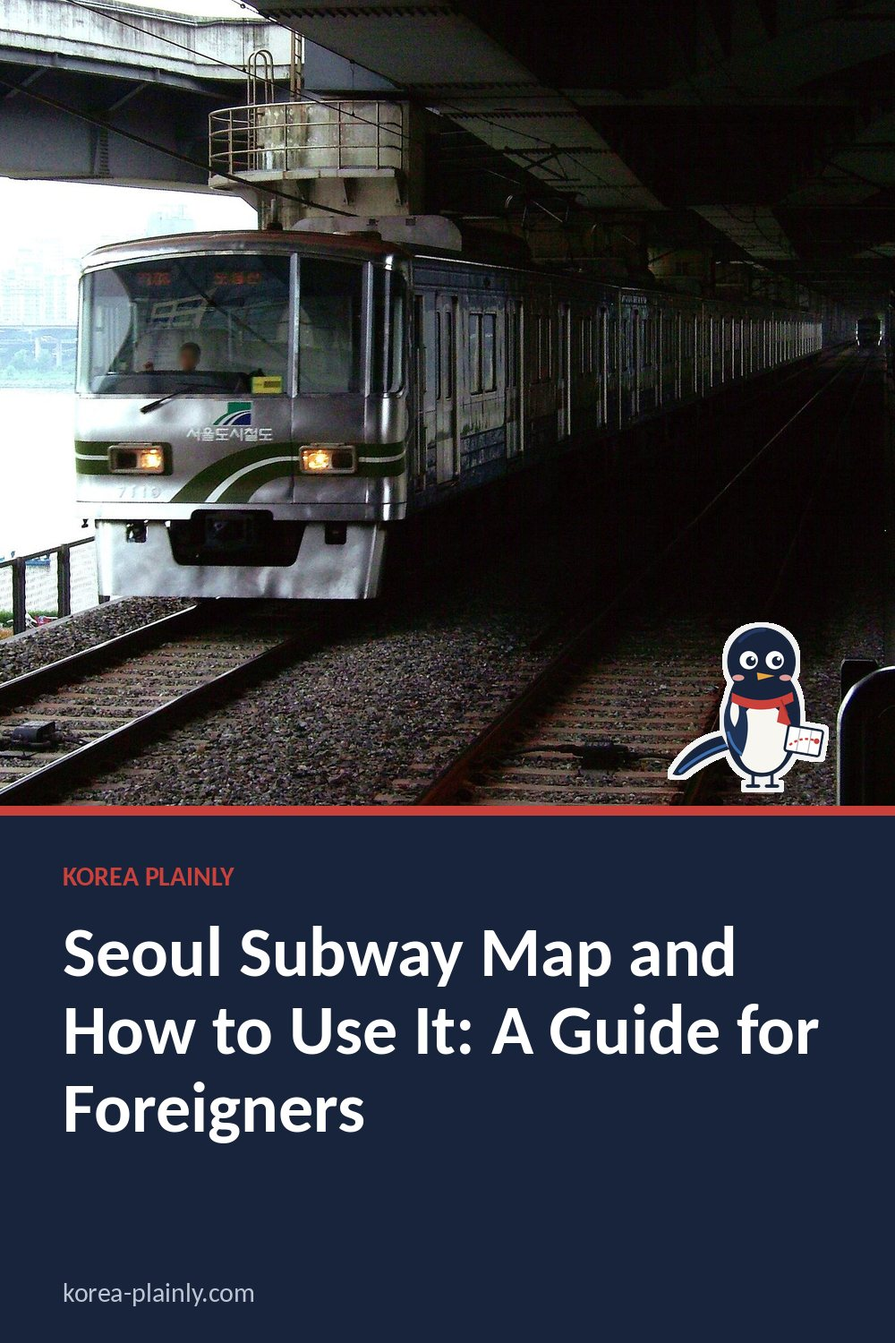
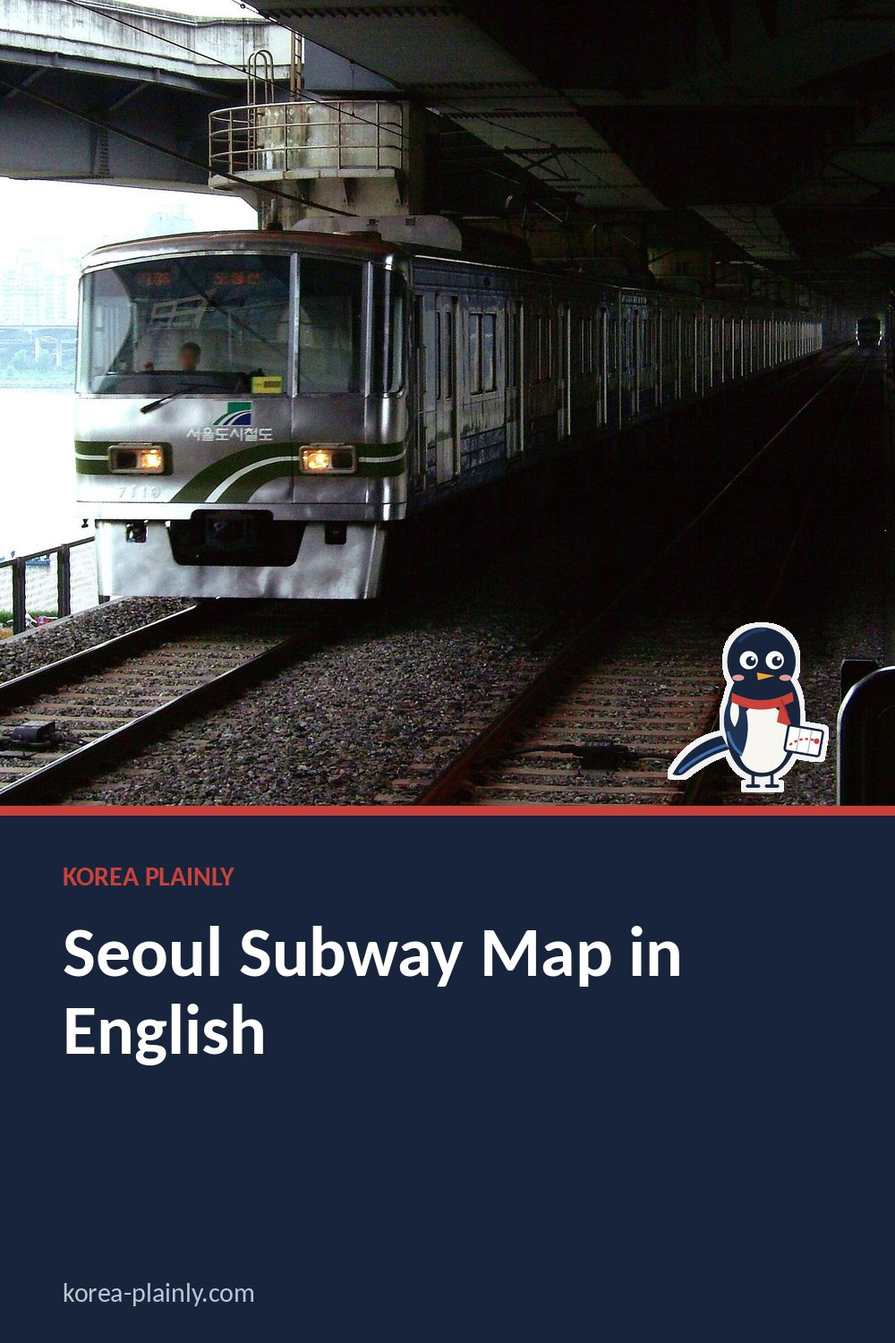
Seoul subway guide: rewrite and retitle for 'seoul subway map english' and 'seoul subway lines'
Lines visitors use with station numbers, Naver Map and Kakao Metro, 2026 fare
(1,550 won), Line 2/1/5 branches and Line 9 express, transfers and exits,
Korean sign words; specific meta description, dek and card text; removes a
self-link labelled 'Seoul bus guide'.

Claude-Session: https://claude.ai/code/session_01MMQnqFtzvhGvSm73SYgpmc

Changed region(s): [[0.062, 0.736, 0.434, 0.8587], [0.558, 0.6747, 0.93, 0.7973], [0.465, 0.736, 0.527, 0.7973]]

diff --git a/seoul-subway-for-foreigners.html b/seoul-subway-for-foreigners.html
@@ -4,18 +4,18 @@
 <meta charset="UTF-8">
 <meta name="viewport" content="width=device-width, initial-scale=1.0">
 <link rel="stylesheet" href="style.css?v=20261015-1">
-<title>Seoul Subway Map and How to Use It: A Guide for Foreigners</title>
-<meta name="description" content="How to read the Seoul subway map, pay with T-money, find the right platform, change lines and choose exits, for first-time visitors.">
+<title>Seoul Subway Map in English: Lines, Apps, Fares and Exits for Foreigners</title>
+<meta name="description" content="The Seoul subway in English: which lines visitors use, Naver Map and Kakao Metro, 1,550-won T-money fares, branch lines, transfers and exit numbers.">
 <link rel="canonical" href="https://korea-plainly.com/seoul-subway-for-foreigners.html">
 <meta property="og:type" content="article">
-<meta property="og:title" content="Seoul Subway Map and How to Use It: A Guide for Foreigners | Korea Plainly">
-<meta property="og:description" content="How to read the Seoul subway map, pay with T-money, find the right platform, change lines and choose exits, for first-time visitors.">
+<meta property="og:title" content="Seoul Subway Map in English: Lines, Apps, Fares and Exits for Foreigners | Korea Plainly">
+<meta property="og:description" content="The Seoul subway in English: which lines visitors use, Naver Map and Kakao Metro, 1,550-won T-money fares, branch lines, transfers and exit numbers.">
 <meta property="og:url" content="https://korea-plainly.com/seoul-subway-for-foreigners.html">
 <meta property="og:image" content="https://korea-plainly.com/photo-seoul-subway-for-foreigners.jpg">
 <meta property="og:site_name" content="Korea Plainly">
 <meta name="twitter:card" content="summary_large_image">
-<meta name="twitter:title" content="Seoul Subway Map and How to Use It: A Guide for Foreigners | Korea Plainly">
-<meta name="twitter:description" content="How to read the Seoul subway map, pay with T-money, find the right platform, change lines and choose exits, for first-time visitors.">
+<meta name="twitter:title" content="Seoul Subway Map in English: Lines, Apps, Fares and Exits for Foreigners | Korea Plainly">
+<meta name="twitter:description" content="The Seoul subway in English: which lines visitors use, Naver Map and Kakao Metro, 1,550-won T-money fares, branch lines, transfers and exit numbers.">
 <meta name="twitter:image" content="https://korea-plainly.com/photo-seoul-subway-for-foreigners.jpg">
 
 <style>
@@ -46,9 +46,9 @@ footer{border-top:1px solid #ddd4c5;padding:30px 24px;color:#737985;text-align:c
 <script async src="https://www.googletagmanager.com/gtag/js?id=G-F508WWT8G9"></script><script>window.dataLayer=window.dataLayer||[];function gtag(){dataLayer.push(arguments);}gtag('js',new Date());gtag('config','G-F508WWT8G9');</script>
 <link rel="stylesheet" href="article.css?v=6">
 <link rel="stylesheet" href="https://fonts.googleapis.com/css2?family=DM+Sans:wght@400;500;600;700&family=Playfair+Display:ital,wght@0,600;1,600&display=swap">
-<script type="application/ld+json" id="kp-faq-ld">{"@context": "https://schema.org", "@type": "FAQPage", "mainEntity": [{"@type": "Question", "name": "Is there an English Seoul subway map?", "acceptedAnswer": {"@type": "Answer", "text": "Yes. Station maps and signs show station names in English as well as Korean, and Naver Map, KakaoMap and subway apps such as Subway Korea can be set to English. Saving the map on your phone is easier than reading the large wall maps."}}, {"@type": "Question", "name": "Can I use the Seoul subway without speaking Korean?", "acceptedAnswer": {"@type": "Answer", "text": "Easily. Ticket machines, signs and announcements are in English, and station numbers help you check where you are. Plan the route in an app before you go, and ask station staff if you get lost."}}, {"@type": "Question", "name": "How late does the Seoul subway run?", "acceptedAnswer": {"@type": "Answer", "text": "Most lines run until around midnight, with slightly earlier last trains on weekends and holidays on some lines. Times differ by station and direction, so check the last train in Naver Map or KakaoMap and use a taxi after that."}}]}</script>
-<script type="application/ld+json" id="kp-article-ld">{"@context": "https://schema.org", "@type": "Article", "headline": "Seoul Subway Map and How to Use It: A Guide for Foreigners", "description": "How to read the Seoul subway map, pay with T-money, find the right platform, change lines and choose exits, for first-time visitors.", "image": ["https://korea-plainly.com/photo-seoul-subway-for-foreigners.jpg"], "datePublished": "2026-10-07", "dateModified": "2026-10-18", "author": {"@type": "Person", "name": "Jungsuk Kim", "url": "https://korea-plainly.com/about.html#author"}, "publisher": {"@type": "Organization", "name": "Korea Plainly", "url": "https://korea-plainly.com/"}, "mainEntityOfPage": "https://korea-plainly.com/seoul-subway-for-foreigners.html"}</script>
-<script type="application/ld+json" id="kp-breadcrumb-ld">{"@context": "https://schema.org", "@type": "BreadcrumbList", "itemListElement": [{"@type": "ListItem", "position": 1, "name": "Home", "item": "https://korea-plainly.com/"}, {"@type": "ListItem", "position": 2, "name": "Guides", "item": "https://korea-plainly.com/guides.html"}, {"@type": "ListItem", "position": 3, "name": "Transport", "item": "https://korea-plainly.com/guides.html?category=transport"}, {"@type": "ListItem", "position": 4, "name": "Seoul Subway Map and How to Use It: A Guide for Foreigners", "item": "https://korea-plainly.com/seoul-subway-for-foreigners.html"}]}</script>
+<script type="application/ld+json" id="kp-faq-ld">{"@context": "https://schema.org", "@type": "FAQPage", "mainEntity": [{"@type": "Question", "name": "Is there an English Seoul subway map?", "acceptedAnswer": {"@type": "Answer", "text": "Yes. Station names, signs and wall maps are in English as well as Korean, and Kakao Metro and Naver Map both work in English. An app is easier to read than the wall map and includes new extensions."}}, {"@type": "Question", "name": "How many subway lines does Seoul have, and which do tourists need?", "acceptedAnswer": {"@type": "Answer", "text": "Nine numbered lines plus over a dozen named ones. Most visitors only need Lines 2, 3 and 4, AREX from Incheon Airport, and sometimes Line 6 for Itaewon or Line 9 for Gimpo Airport and Gangnam."}}, {"@type": "Question", "name": "Can I pay for the Seoul subway with my credit card?", "acceptedAnswer": {"@type": "Answer", "text": "Not by tapping a foreign card at the gate. Buy a T-money card or a tourist card such as WOWPASS and top it up with cash, or buy a single journey ticket from the station machine and get its 500-won deposit back afterwards."}}]}</script>
+<script type="application/ld+json" id="kp-article-ld">{"@context": "https://schema.org", "@type": "Article", "headline": "Seoul Subway Map in English: Lines, Apps, Fares and Exits for Foreigners", "description": "The Seoul subway in English: which lines visitors use, Naver Map and Kakao Metro, 1,550-won T-money fares, branch lines, transfers and exit numbers.", "image": ["https://korea-plainly.com/photo-seoul-subway-for-foreigners.jpg"], "datePublished": "2026-10-07", "dateModified": "2026-11-20", "author": {"@type": "Person", "name": "Jungsuk Kim", "url": "https://korea-plainly.com/about.html#author"}, "publisher": {"@type": "Organization", "name": "Korea Plainly", "url": "https://korea-plainly.com/"}, "mainEntityOfPage": "https://korea-plainly.com/seoul-subway-for-foreigners.html"}</script>
+<script type="application/ld+json" id="kp-breadcrumb-ld">{"@context": "https://schema.org", "@type": "BreadcrumbList", "itemListElement": [{"@type": "ListItem", "position": 1, "name": "Home", "item": "https://korea-plainly.com/"}, {"@type": "ListItem", "position": 2, "name": "Guides", "item": "https://korea-plainly.com/guides.html"}, {"@type": "ListItem", "position": 3, "name": "Transport", "item": "https://korea-plainly.com/guides.html?category=transport"}, {"@type": "ListItem", "position": 4, "name": "Seoul Subway Map in English: Lines, Apps, Fares and Exits for Foreigners", "item": "https://korea-plainly.com/seoul-subway-for-foreigners.html"}]}</script>
 <meta property="article:published_time" content="2026-10-07">
 </head>
 <body class="kp-article">
@@ -72,64 +72,77 @@ footer{border-top:1px solid #ddd4c5;padding:30px 24px;color:#737985;text-align:c
 <main>
 <nav class="kp-crumbs" data-kp="crumbs" aria-label="Breadcrumb"><a href="index.html">Home</a> <span>›</span> <a href="guides.html">Guides</a> <span>›</span> <a href="guides.html?category=transport">Transport</a></nav>
 <div class="eyebrow">SEOUL · TRANSPORT</div>
-<h1>Seoul Subway Map and How to Use It: A Guide for Foreigners</h1>
-<p class="kp-date" data-kp="date">By <a href="about.html#author">Jungsuk Kim</a>, Korea Plainly · Published <time datetime="2026-10-07">7 October 2026</time> · Updated <time datetime="2026-10-18">18 October 2026</time></p>
-<p class="dek">The Seoul subway map looks complicated, but you only need a line, a direction and an exit. Here is how to read the map, pay, change lines and find your way out.</p>
+<h1>Seoul Subway Map in English: Lines, Apps, Fares and Exits for Foreigners</h1>
+<p class="kp-date" data-kp="date">By <a href="about.html#author">Jungsuk Kim</a>, Korea Plainly · Published <time datetime="2026-10-07">7 October 2026</time> · Updated <time datetime="2026-11-20">20 November 2026</time></p>
+<p class="dek">You only need Lines 2, 3 and 4, an app in English and three numbers: the station, the next stop and the exit. Here is how to ride the Seoul subway without a wrong turn.</p>
 
 <img class="cover" src="photo-seoul-subway-for-foreigners.jpg" alt="A Seoul subway train running beside the Han River" srcset="img/photo-seoul-subway-for-foreigners.0b6d5614.w480.webp 480w, img/photo-seoul-subway-for-foreigners.0b6d5614.w800.webp 800w, img/photo-seoul-subway-for-foreigners.0b6d5614.w1200.webp 1200w, photo-seoul-subway-for-foreigners.jpg 1600w" sizes="(max-width: 860px) 100vw, 820px" fetchpriority="high">
 <p class="photo-credit" data-kp="photo-credit" style="font-size:12px;color:#777;margin:-18px 0 24px"><a href="https://commons.wikimedia.org/wiki/File:Seoul-Metropolitan-Rapid-Transit-7010-20070721.jpg" target="_blank" rel="noopener nofollow" style="color:inherit">Photo: LERK, CC BY 2.5, via Wikimedia Commons</a></p>
 
 <article>
-<nav class="kp-toc" data-kp="toc" aria-label="On this page"><p>On this page</p><ol><li><a href="#reading-the-seoul-subway-map">Reading the Seoul subway map</a></li><li><a href="#the-best-subway-map-apps">The best subway map apps</a></li><li><a href="#paying-for-the-subway">Paying for the subway</a></li><li><a href="#finding-the-right-platform">Finding the right platform</a></li><li><a href="#transfers-and-exits">Transfers and exits</a></li><li><a href="#hours-crowds-and-etiquette">Hours, crowds and etiquette</a></li><li><a href="#faq">FAQ</a></li></ol></nav>
-<h2 id="reading-the-seoul-subway-map">Reading the Seoul subway map</h2>
-<p>The Seoul subway map looks frightening the first time you see it on a station wall: more than twenty coloured lines, hundreds of dots and several lines that run far out into Gyeonggi-do and Incheon. The trick is that you never need to read the whole thing. You only need three pieces of information for any ride: the line, the direction and the station where you change.</p>
+<p>Seoul's subway map has more than twenty lines, but a first trip uses a handful. Every station name is in English, every station has a number, and announcements come in English after the Korean. What trips visitors up is the wrong platform, the wrong branch or the wrong exit.</p>
+
+<nav class="kp-toc" data-kp="toc" aria-label="On this page"><p>On this page</p><ol><li><a href="#the-lines-you-will-actually-use">The lines you will actually use</a></li><li><a href="#english-subway-map-apps">English subway map apps</a></li><li><a href="#paying-t-money-and-fares">Paying: T-money and fares</a></li><li><a href="#choosing-the-right-platform">Choosing the right platform</a></li><li><a href="#transfers-and-exits">Transfers and exits</a></li><li><a href="#hours-crowds-and-manners">Hours, crowds and manners</a></li><li><a href="#faq">FAQ</a></li></ol></nav>
+<h2 id="the-lines-you-will-actually-use">The lines you will actually use</h2>
+<p>Lines 1 to 9 are numbered and colour-coded on signs, floor arrows and trains. For a first visit these matter:</p>
 <ul>
-<li><strong>Line numbers and colours.</strong> Lines 1 to 9 are numbered, and each has a fixed colour that is used on the map, on platform signs and on the floor arrows inside stations. Line 2 (green) is the loop through central Seoul, Line 4 (light blue) serves Myeongdong and Seoul Station, and Line 9 (gold) runs along the south of the Han River. Other lines have names instead of numbers, such as AREX (the airport railroad), Shinbundang, Gyeongui-Jungang and Suin-Bundang.</li>
-<li><strong>Station numbers.</strong> Every station has a three-digit code beside its name, for example 201 for City Hall on Line 2 or 424 for Myeongdong on Line 4. The first digit usually matches the line. If you cannot pronounce a station name, the number is an easy way to check you are in the right place.</li>
-<li><strong>Transfer stations.</strong> Stations where lines meet are drawn as larger white circles. Big ones such as Seoul Station, Jongno 3-ga and Express Bus Terminal connect three or more lines.</li>
+<li><strong>Line 2 (green)</strong> is the loop that links most of the places on a first itinerary: Hongik University (239) for Hongdae, City Hall (201), Dongdaemun History &amp; Culture Park (205), Seongsu (211), Jamsil (216) for Lotte World and Gangnam (222).</li>
+<li><strong>Line 4 (sky blue)</strong> runs through Seoul Station (426), Myeongdong (424) and Dongdaemun.</li>
+<li><strong>Line 3 (orange)</strong> serves Gyeongbokgung (327), Anguk (328) for Bukchon and Insadong, and Express Bus Terminal (339) for buses out of Seoul.</li>
+<li><strong>Line 6 (brown)</strong> goes to Itaewon (630); <strong>Line 5 (purple)</strong> to Gwanghwamun (533) and Gimpo Airport.</li>
+<li><strong>Line 9 (gold)</strong> crosses the south bank from Gimpo Airport through Yeouido to the Gangnam area.</li>
+<li><strong>Named lines</strong>: AREX (light blue) from Incheon Airport to Seoul Station, Shinbundang (red) from Sinsa through Gangnam to Pangyo, and Gyeongui–Jungang (teal), whose trains come less often.</li>
 </ul>
-<p>A screenshot of an old map may be missing newer stations, so use an app for planning.</p>
+<p>The three-digit station number is worth noting next to each stop in your plans. Checking for 205 on a platform sign is quicker than reading "Dongdaemun History &amp; Culture Park". Interchanges have one number per line: Seoul Station is 133 on Line 1 and 426 on Line 4.</p>
 
-<h2 id="the-best-subway-map-apps">The best subway map apps</h2>
-<p>Route planning is much easier on a phone than on a wall map. Naver Map and KakaoMap both have English menus, show the subway lines in their real colours, and tell you which carriage door is closest to the exit or transfer you need. Subway apps such as Subway Korea show a clean, zoomable Seoul subway map. Google Maps shows subway routes but walks you badly, so keep it as a backup. Our guide to <a href="naver-map-vs-google-maps-korea.html">Naver Map vs Google Maps</a> explains the switch to English.</p>
-
-<h2 id="paying-for-the-subway">Paying for the subway</h2>
-<p>The simplest way to pay is a rechargeable <a href="korea-transit-card-guide.html">transit card</a> such as T-money, which you can buy and top up with cash at convenience stores and at the machines in every station. Some travel cards and foreign-issued contactless bank cards are also accepted at the gates, but acceptance has been changing, so a T-money card with a few thousand won on it is the safest choice.</p>
+<h2 id="english-subway-map-apps">English subway map apps</h2>
+<p>The wall maps are in English, but a phone is far easier. Two apps cover everything:</p>
 <ul>
-<li><strong>Fares.</strong> A basic adult ride in Seoul cost about 1,550 won with a card in 2026, with a little extra for longer trips. Paying with a card is cheaper than a single journey ticket.</li>
-<li><strong>Single journey tickets.</strong> The station machines (with an English button) sell a reusable card ticket that includes a small refundable deposit. Get the deposit back at the deposit refund machine near the gates when you finish.</li>
-<li><strong>Tap in and tap out.</strong> Always tap your card when you leave, not only when you enter. The fare depends on distance, and leaving without tapping can cost you more next time.</li>
+<li><strong>Naver Map</strong>: set the language to English, type the place rather than the station, and it gives the line, direction, exit number and often the best door for a quick transfer (shown like "3-2": car 3, door 2). Our <a href="naver-map-vs-google-maps-korea.html">Naver Map vs Google Maps guide</a> shows how to switch it to English.</li>
+<li><strong>Kakao Metro</strong>: a clean, zoomable map of the whole network with first and last trains for each station and direction.</li>
 </ul>
-<p>If you change from the subway to a bus within a short time, the transfer is discounted or free as long as you tap out of each vehicle. The details are in our guide to <a href="korea-transit-card-guide.html">public transport transfers</a>.</p>
+<p>Google Maps shows subway routes but its walking directions in Korea are poor, so treat it as a backup only.</p>
 
-<h2 id="finding-the-right-platform">Finding the right platform</h2>
-<p>This is where most first-time mistakes happen. The same line runs in two directions, often from separate entrances on opposite sides of the road. Before you tap in, look at the signs above the stairs: they show the line colour and the next station or the end station in each direction. Compare that with the next stop on your app. At some stations the wrong gate means paying again to cross over.</p>
-<p>Line 2 is the exception that confuses people: because it is a loop, the signs say "inner circle" (clockwise) and "outer circle" (anticlockwise). Just check the name of the next station instead.</p>
+<h2 id="paying-t-money-and-fares">Paying: T-money and fares</h2>
+<p>Buy a <a href="korea-transit-card-guide.html">T-money card</a> at any convenience store (CU, GS25, 7-Eleven) and top it up with cash there or at the yellow-and-blue reload machines in every station. A basic adult ride in Seoul cost about 1,550 won on a card in 2026, with a small extra charge for longer distances; Shinbundang and some airport routes add a surcharge on top. WOWPASS and the Korea Tour Card work the same way.</p>
+<ul>
+<li><strong>Tap out every time</strong>, including when you change to a bus: the fare is worked out by distance.</li>
+<li><strong>Transfers are cheap.</strong> Subway-to-bus or bus-to-subway within 30 minutes of tapping out (60 minutes late at night) is charged as one journey on distance.</li>
+<li><strong>Single journey tickets</strong> from the station machines include a 500-won deposit. Feed the card into the deposit refund machine (보증금 환급기) by the gates when you are done.</li>
+<li><strong>Unlimited rides.</strong> The Climate Card (기후동행카드) short-term pass only pays off if you ride many times a day.</li>
+</ul>
+<p>Tapping a foreign Visa or Mastercard directly on the gate is not possible yet, so do not count on it.</p>
+
+<h2 id="choosing-the-right-platform">Choosing the right platform</h2>
+<p>At many stations each direction has its own entrance on opposite sides of the road, and once through the gate you cannot cross without paying again. The sign above the stairs shows the next station and the final one, marked 방면 (bangmyeon, "towards"). Match the next station with your app.</p>
+<ul>
+<li><strong>Line 2 loop</strong>: signs say 내선순환 "inner circle" (clockwise) or 외선순환 "outer circle" (anticlockwise). Just check the next station. A train showing Kkachisan or Sinseol-dong is going down one of the two short branches.</li>
+<li><strong>Line 1 and Line 5 branches</strong>: Line 1 splits south of Guro (towards Incheon or towards Suwon and Cheonan), and Line 5 splits after Gangdong (towards Hanam or Macheon). Check the destination on the platform screen.</li>
+<li><strong>Line 9 express</strong>: trains marked 급행 (geuphaeng, express) skip most stations. They are fast between Gimpo Airport, Yeouido and Sinnonhyeon but packed at rush hour.</li>
+</ul>
 
 <h2 id="transfers-and-exits">Transfers and exits</h2>
-<p>Follow the coloured signs marked "Transfer" to change lines. Some transfers are a short walk across the platform; others, such as at Gimpo Airport or Gangnam-area interchanges, can take five to ten minutes through tunnels and stairs. Allow extra time if you have luggage, and look for lifts marked with a wheelchair symbol. On Line 9, express trains skip many stations, so check that yours is served.</p>
-<p>Exit numbers matter more than in many cities. Large stations have ten or more exits that come out on different streets, sometimes several hundred metres apart. Your map app and many shop websites give the exit number ("Exit 8"), and yellow signs inside the station point the way.</p>
+<p>To change lines, follow the signs for 환승 (hwanseung, transfer) in the colour of your next line. Some are a few steps; others, like Line 5 to Line 9 at Gimpo Airport or Lines 1 and 4 at Seoul Station, are long walks. With a suitcase, follow the lift symbol and allow ten minutes.</p>
+<p>Exits matter more than in most cities. Gangnam and Hongik University have around ten exits (출구, chulgu) each, coming up on different streets. Naver Map and most hotel websites give the exit number; yellow signs inside lead you to it.</p>
 
-<h2 id="hours-crowds-and-etiquette">Hours, crowds and etiquette</h2>
+<h2 id="hours-crowds-and-manners">Hours, crowds and manners</h2>
 <ul>
-<li>Trains usually run from about 5:30 in the morning until around midnight. Last trains vary by line and day, so check your app before a late night out.</li>
-<li>Rush hours (roughly 7:30 to 9:30 and 6:00 to 8:00 pm on weekdays) are very crowded on Lines 2, 7 and 9. Travel outside these times with big suitcases if you can.</li>
-<li>Let people off first, then board. Queue at the marked lines on the platform.</li>
-<li>The seats at the ends of each carriage are for older passengers, pregnant women and people with disabilities. Pink seats are reserved for pregnant women. Leave them free even when the train is quiet.</li>
-<li>Speak quietly, use headphones, and avoid eating on the train.</li>
-
+<li>Trains run from roughly 5:30 am until around midnight. The last train (막차, makcha) differs by station and direction, and Kakao Metro shows it; after that, use a taxi.</li>
+<li>Weekday rush hours (about 7:30-9:30 am and 6-8 pm) are packed on Line 2 near Gangnam and Sindorim and on Line 9 express. Move big luggage outside those times.</li>
+<li>Seats at each end of the carriage (노약자석) are for older people, disabled passengers and pregnant women; the pink seats are for pregnant women. Leave both free even on an empty train.</li>
+<li>Queue beside the doors, let people off first, keep calls quiet and do not eat on the train.</li>
 </ul>
-<p>For journeys the subway does not cover well, the <a href="seoul-subway-for-foreigners.html">Seoul bus guide</a> explains how the buses work, and our <a href="incheon-airport-to-seoul.html">airport guide</a> covers AREX from Incheon.</p>
+<p>Arriving by plane? Our <a href="incheon-airport-to-seoul.html">Incheon Airport to Seoul guide</a> compares AREX with the airport buses, and the <a href="seoul-neighborhoods-guide.html">Seoul neighbourhoods guide</a> shows which lines serve each hotel area.</p>
 
-<div class="tip"><strong>Bottom line:</strong> Use the Seoul subway map in an app, check the direction before you tap in, note your exit number, and tap out at the end. After a couple of rides it becomes the easiest way to see the city.</div>
+<div class="tip"><strong>Bottom line:</strong> Plan in Naver Map or Kakao Metro, note the station number, next station and exit, and tap out at the end.</div>
 
 <section class="faq"><h2 id="faq">FAQ</h2>
 <h3>Is there an English Seoul subway map?</h3>
-<p>Yes. Station maps and signs show station names in English as well as Korean, and Naver Map, KakaoMap and subway apps such as Subway Korea can be set to English. Saving the map on your phone is easier than reading the large wall maps.</p>
-<h3>Can I use the Seoul subway without speaking Korean?</h3>
-<p>Easily. Ticket machines, signs and announcements are in English, and station numbers help you check where you are. Plan the route in an app before you go, and ask station staff if you get lost.</p>
-<h3>How late does the Seoul subway run?</h3>
-<p>Most lines run until around midnight, with slightly earlier last trains on weekends and holidays on some lines. Times differ by station and direction, so check the last train in Naver Map or KakaoMap and use a taxi after that.</p>
+<p>Yes. Station names, signs and wall maps are in English as well as Korean, and Kakao Metro and Naver Map both work in English. An app is easier to read than the wall map and includes new extensions.</p>
+<h3>How many subway lines does Seoul have, and which do tourists need?</h3>
+<p>Nine numbered lines plus over a dozen named ones. Most visitors only need Lines 2, 3 and 4, AREX from Incheon Airport, and sometimes Line 6 for Itaewon or Line 9 for Gimpo Airport and Gangnam.</p>
+<h3>Can I pay for the Seoul subway with my credit card?</h3>
+<p>Not by tapping a foreign card at the gate. Buy a T-money card or a tourist card such as WOWPASS and top it up with cash, or buy a single journey ticket from the station machine and get its 500-won deposit back afterwards.</p>
 </section>
 
 <!-- kp-kkachi -->

diff --git a/guides.html b/guides.html
@@ -111,7 +111,7 @@
 <div class="guide-copy"><small>TRAVEL BASICS · START HERE</small><h2>Arriving in Korea: First-Day Checklist from Incheon Airport to Your Hotel</h2><p>What to do before you fly, at immigration and customs, and in your first hours in Korea: entry forms, data, cash, a T-money card and the trip into Seoul.</p><span class="guide-arrow">Read guide →</span></div>
 </a><a class="guide-card" href="seoul-subway-for-foreigners.html" data-guide-category="transport">
 <div class="guide-image" data-thumb="photo-seoul-subway-for-foreigners.jpg"><img class="guide-thumb" src="photo-seoul-subway-for-foreigners.jpg" alt="" loading="lazy" srcset="img/photo-seoul-subway-for-foreigners.0b6d5614.w480.webp 480w, img/photo-seoul-subway-for-foreigners.0b6d5614.w800.webp 800w, img/photo-seoul-subway-for-foreigners.0b6d5614.w1200.webp 1200w, photo-seoul-subway-for-foreigners.jpg 1600w" sizes="(max-width: 600px) 100vw, (max-width: 1000px) 50vw, 400px" decoding="async"><span>01</span></div>
-<div class="guide-copy"><small>TRANSPORT · SEOUL</small><h2>Seoul Subway Map and How to Use It: A Guide for Foreigners</h2><p>Reading the subway map, paying with T-money, platforms, transfers, exits and last trains.</p><span class="guide-arrow">Read guide →</span></div>
+<div class="guide-copy"><small>TRANSPORT · SEOUL</small><h2>Seoul Subway Map in English: Lines, Apps, Fares and Exits for Foreigners</h2><p>The lines visitors use, English map apps, T-money fares, Line 2 and Line 1 branches, transfers and exit numbers.</p><span class="guide-arrow">Read guide →</span></div>
 </a><a class="guide-card" href="naver-map-vs-google-maps-korea.html" data-guide-category="apps">
 <div class="guide-image" data-thumb="thumb-maps-korea.jpg"><img class="guide-thumb" src="thumb-maps-korea.jpg" alt="" loading="lazy" decoding="async"><span>02</span></div>
 <div class="guide-copy"><small>APPS & TIPS · TRAVEL</small><h2>Naver Map in English vs Kakao Map vs Google Maps: Which Map App to Use in Korea</h2><p>
